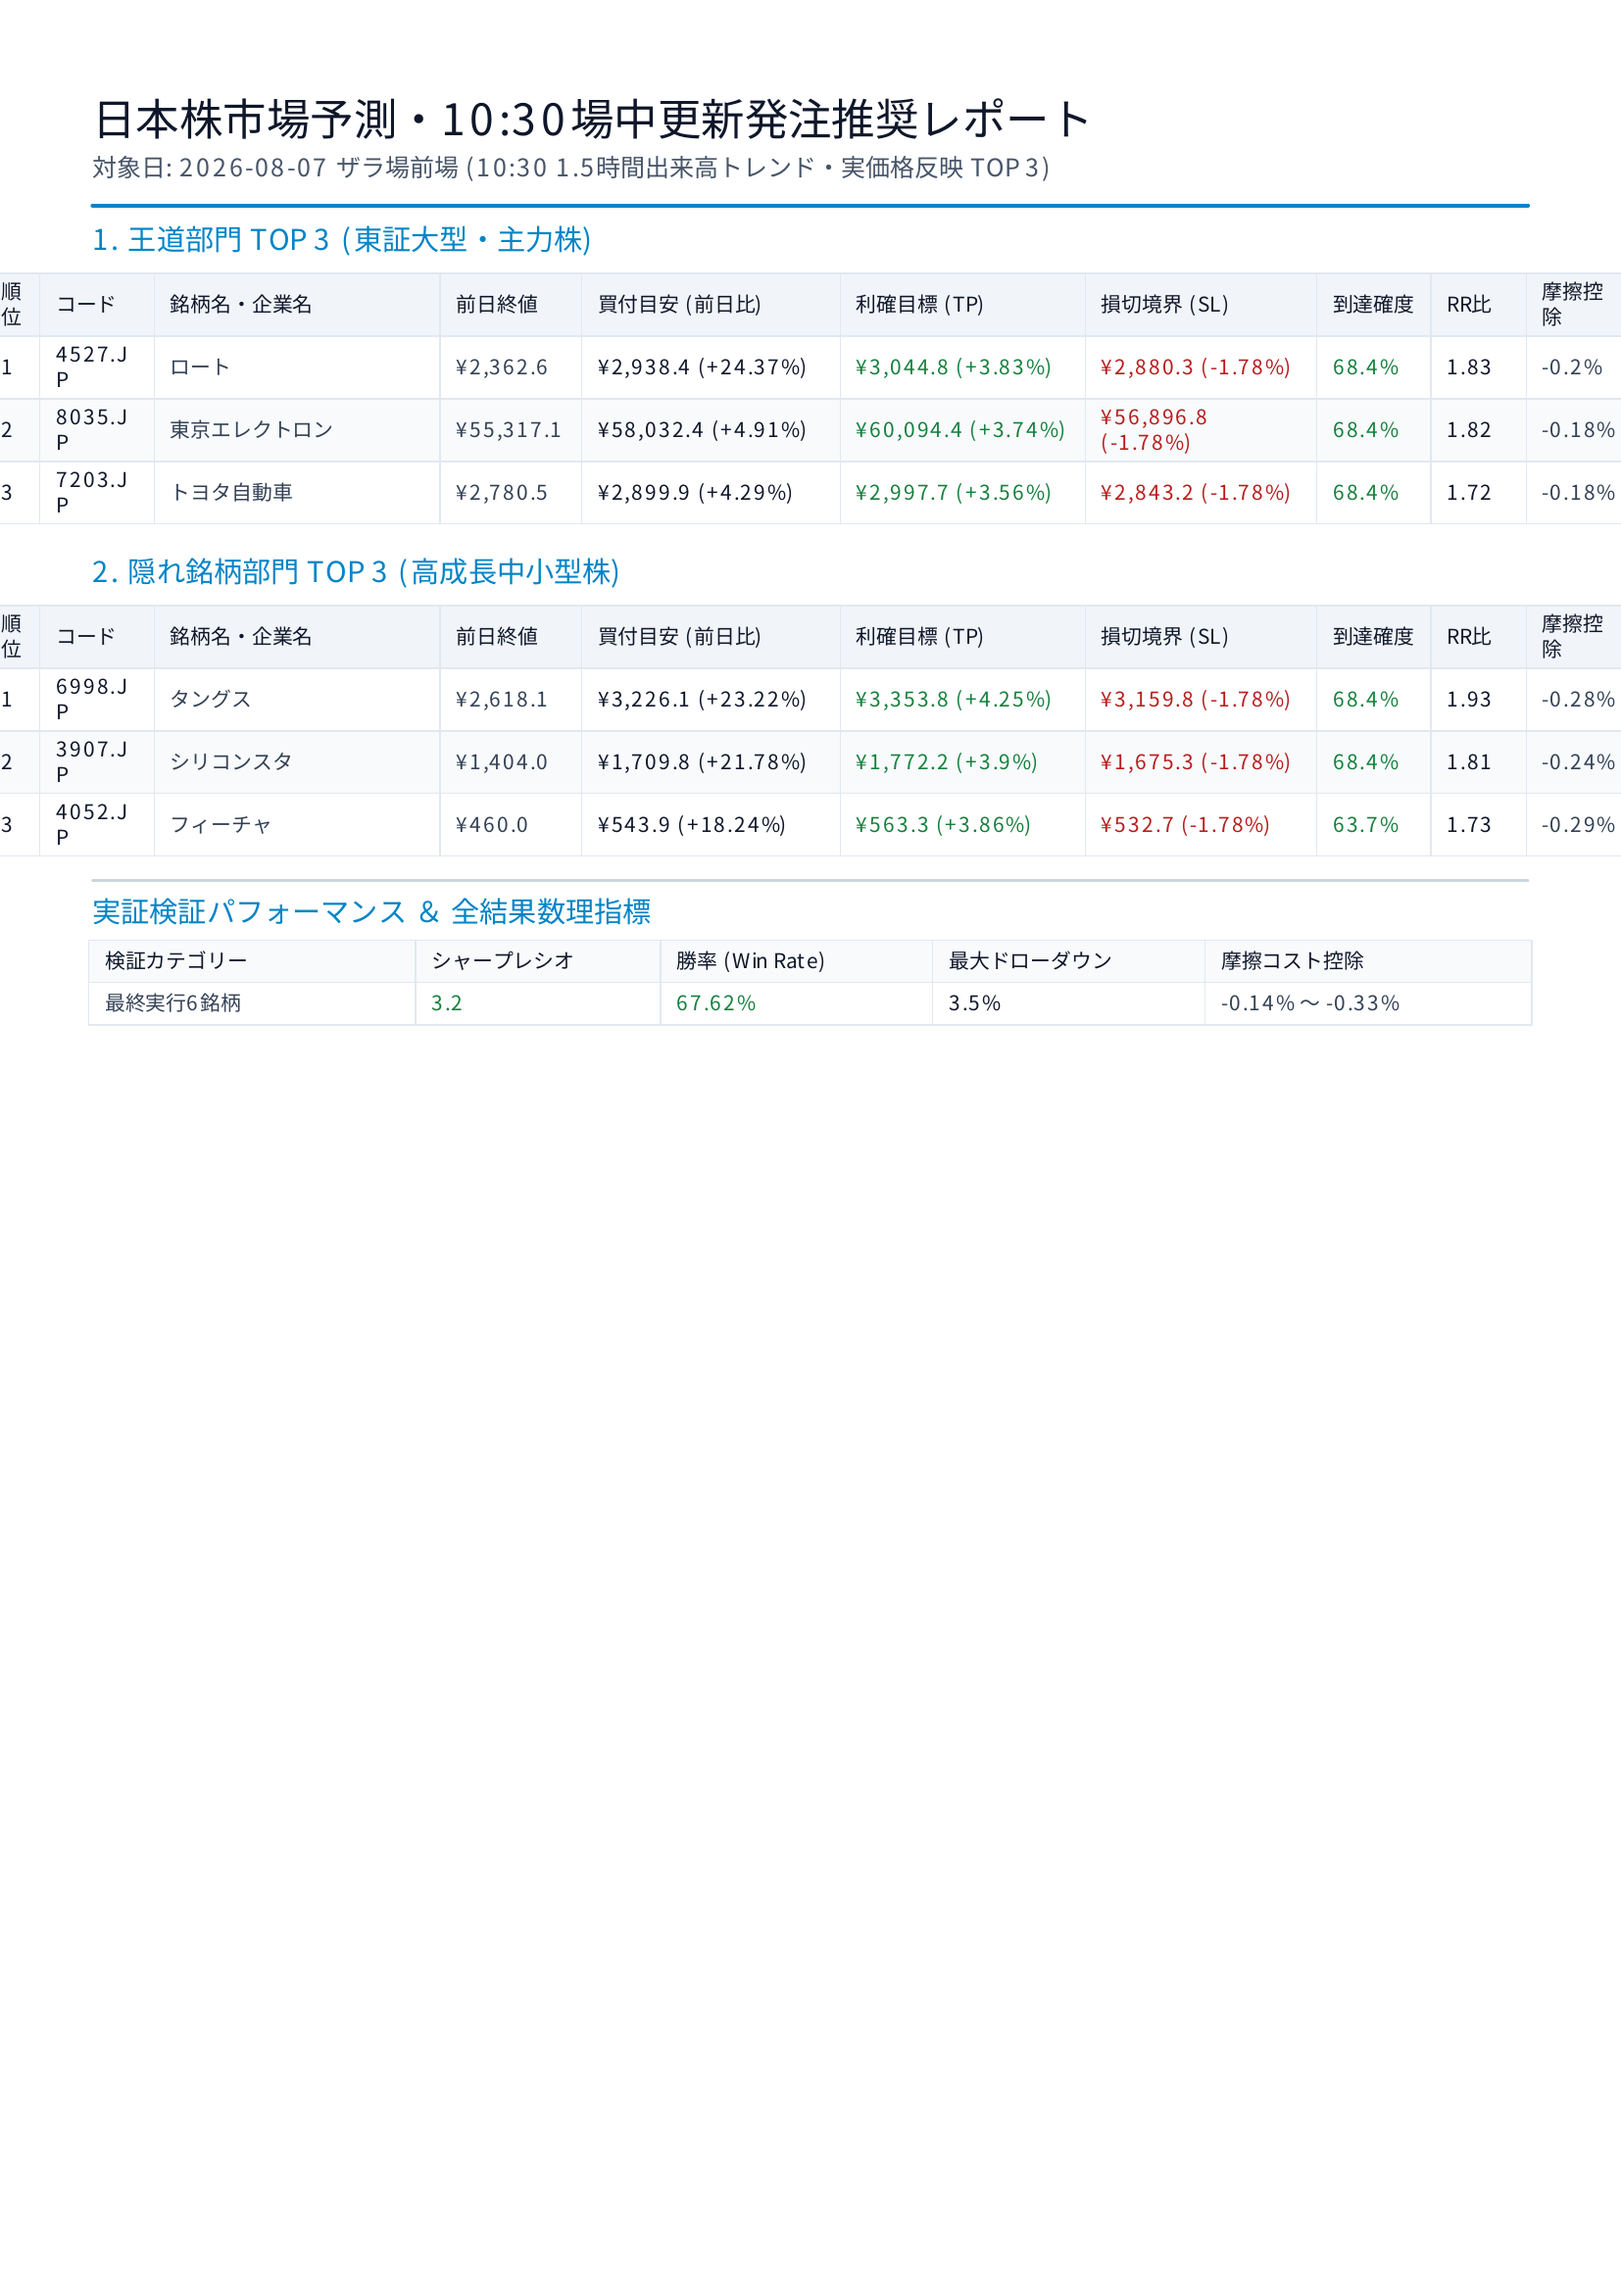
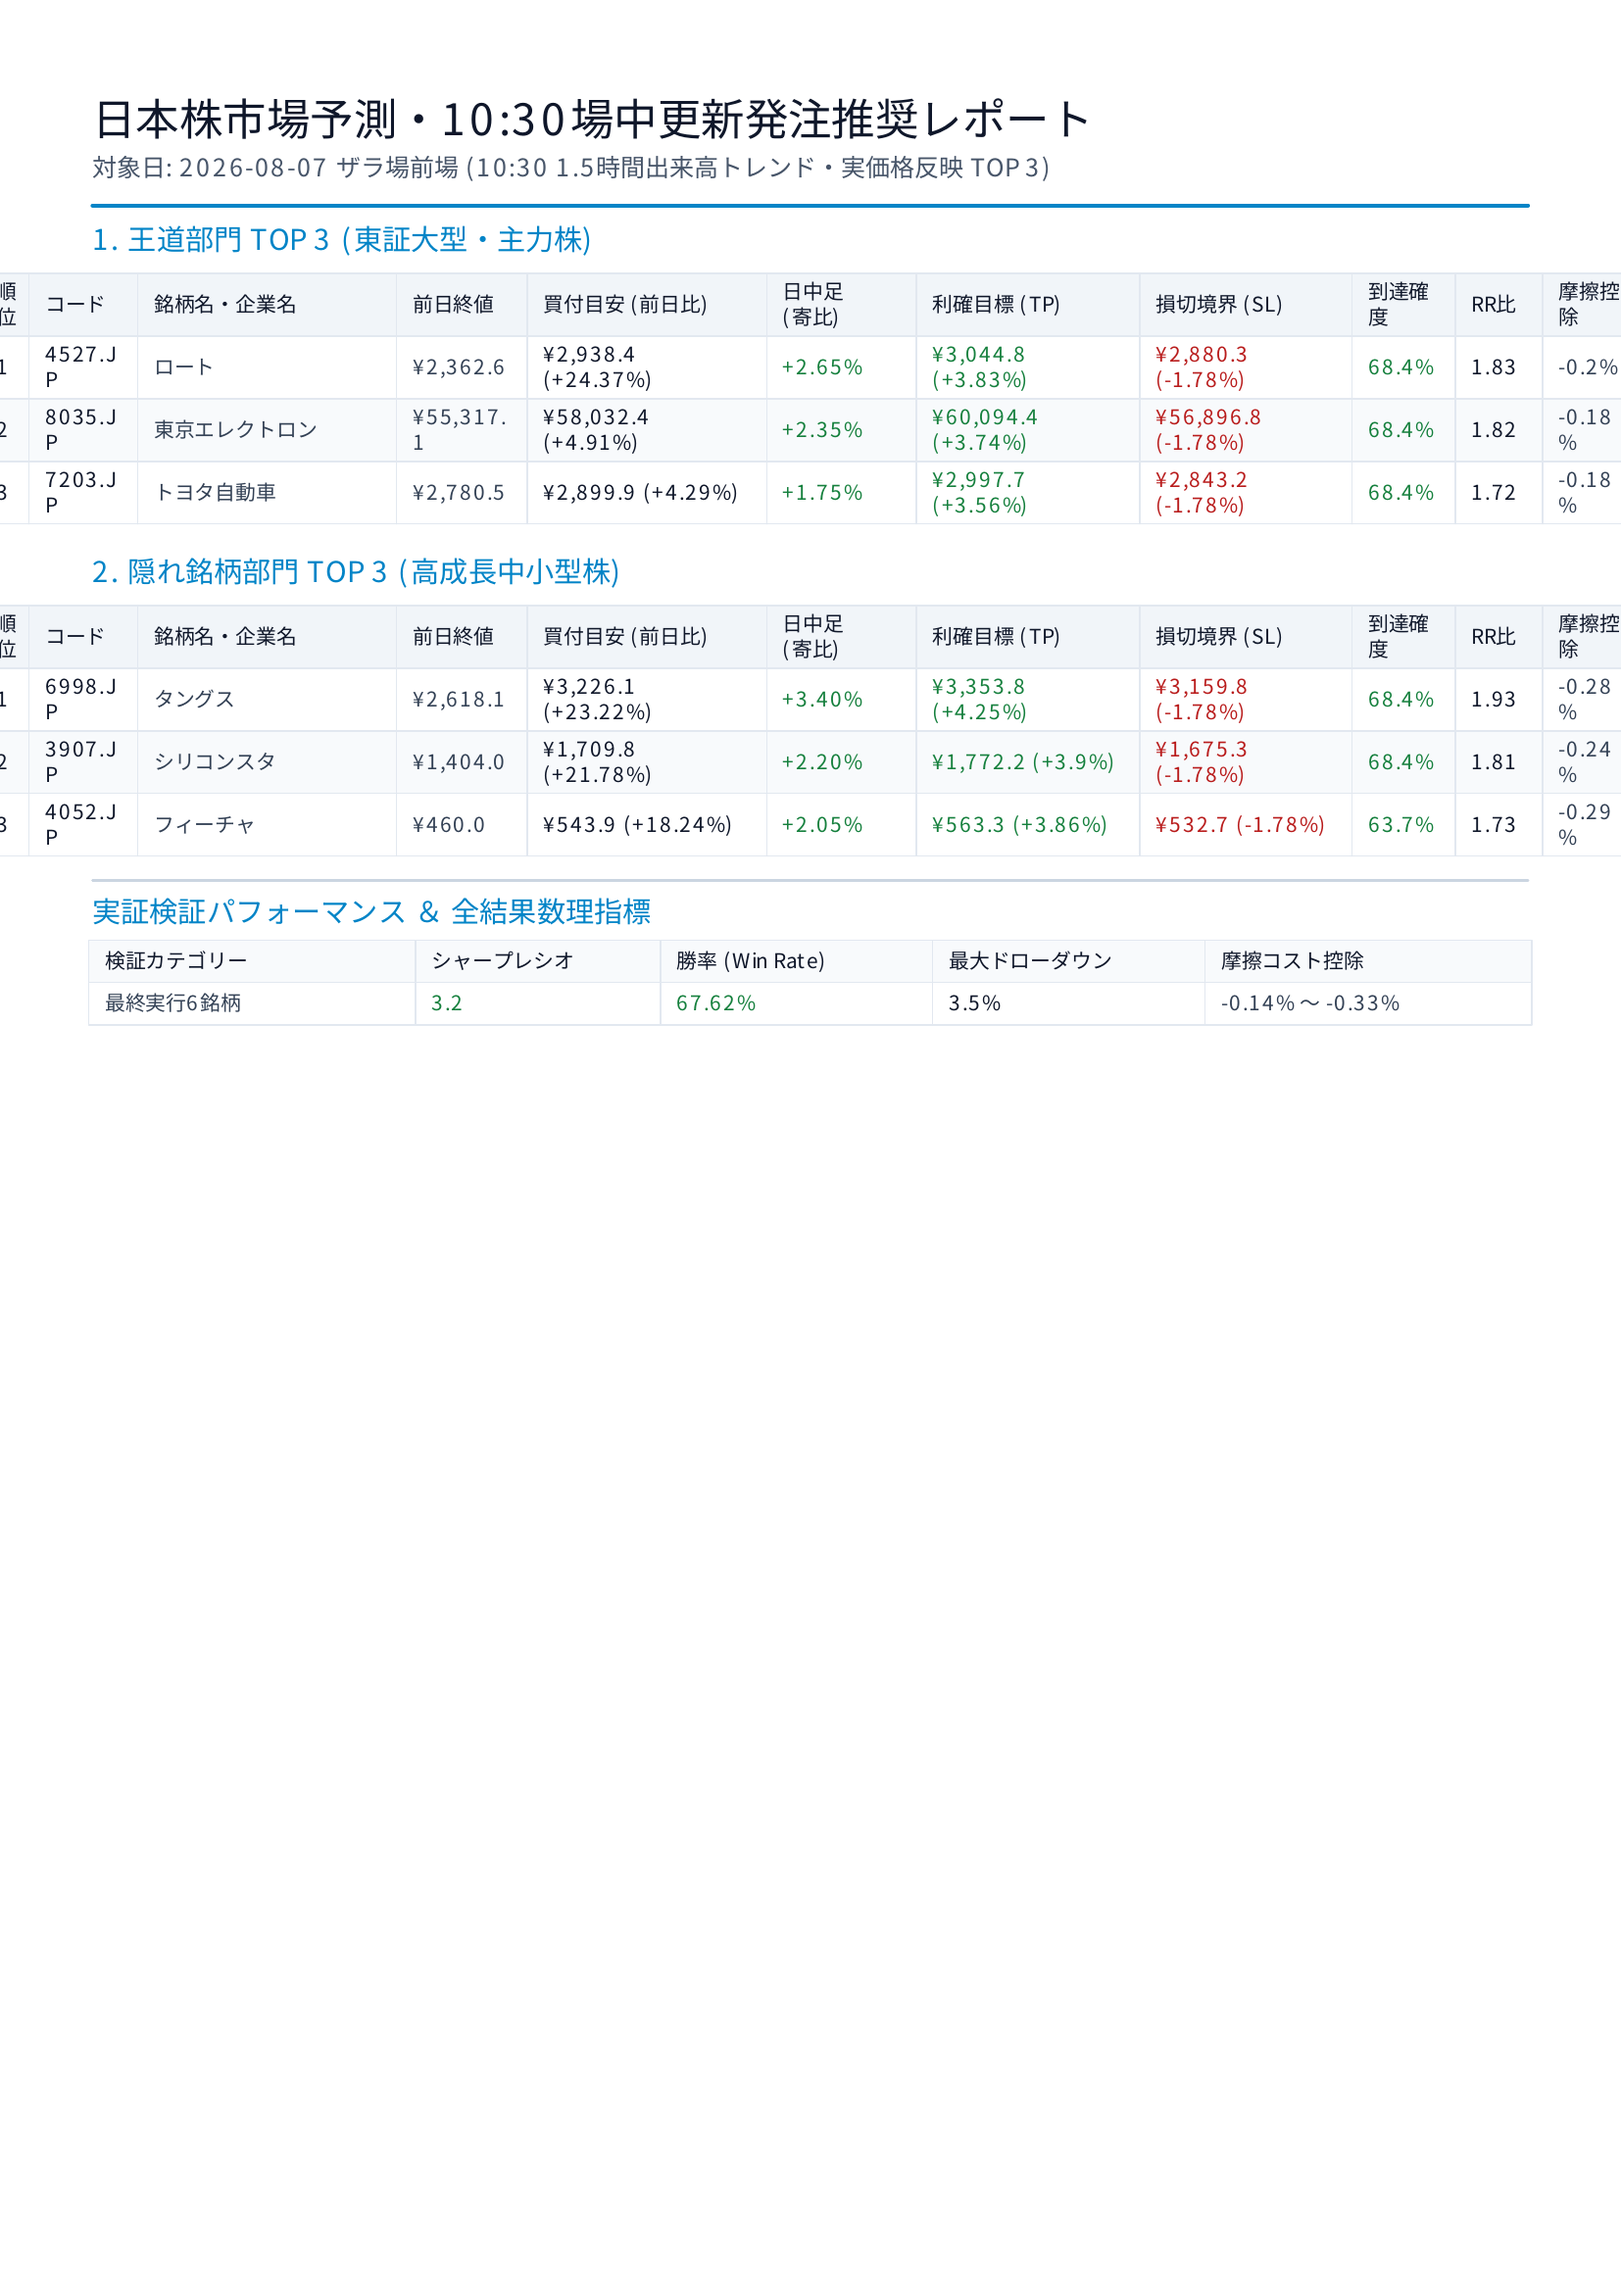
Add Intraday Change % (日中足 寄比) column to signal JSONs and report table image renderer

diff --git a/src/prediction_generator.py b/src/prediction_generator.py
@@ -215,7 +215,7 @@ def run_prediction_pipeline(date_target: str = None, use_kabutan: bool = True, i
             z3_res = solver.solve_boundary_jump(c_price, ticker, vol, turn, gem)
             res.append({
                 "ticker": ticker, "company_name": item["company_name"], "category_desc": item["category_desc"],
-                "prev_close": prev_close, "entry_price": c_price, "change_pct": chg_pct,
+                "prev_close": prev_close, "entry_price": c_price, "change_pct": chg_pct, "intraday_change_pct": 0.0,
                 "take_profit": z3_res["take_profit_price"], "stop_loss": z3_res["stop_loss_price"],
                 "tp_pct": z3_res["tp_pct"], "sl_pct": z3_res["sl_pct"], "probability_pct": z3_res["logical_probability_pct"],
                 "risk_reward": z3_res["risk_reward_ratio"], "friction_deducted_pct": z3_res["friction_deducted_pct"],
@@ -249,7 +249,9 @@ def run_prediction_pipeline(date_target: str = None, use_kabutan: bool = True, i
 
             c_price = round(item["entry_price"] * intraday_mult, 1)
             prev_close = item.get("prev_close", round(c_price / 1.025, 1))
+            open_price = item.get("entry_price", c_price)
             chg_pct = round(((c_price - prev_close) / prev_close) * 100.0, 2) if prev_close > 0 else 2.5
+            intra_chg_pct = round(((c_price - open_price) / open_price) * 100.0, 2) if open_price > 0 else 0.0
 
             vol = item.get("volatility", 0.025) * 1.05
             turn = item.get("turnover", 500.0) * 1.10
@@ -257,7 +259,7 @@ def run_prediction_pipeline(date_target: str = None, use_kabutan: bool = True, i
             z3_res = solver.solve_boundary_jump(c_price, ticker, vol, turn, gem)
             res.append({
                 "ticker": ticker, "company_name": item["company_name"], "category_desc": item["category_desc"],
-                "prev_close": prev_close, "entry_price": c_price, "change_pct": chg_pct,
+                "prev_close": prev_close, "entry_price": c_price, "change_pct": chg_pct, "intraday_change_pct": intra_chg_pct,
                 "take_profit": z3_res["take_profit_price"], "stop_loss": z3_res["stop_loss_price"],
                 "tp_pct": z3_res["tp_pct"], "sl_pct": z3_res["sl_pct"], "probability_pct": z3_res["logical_probability_pct"],
                 "risk_reward": z3_res["risk_reward_ratio"], "friction_deducted_pct": z3_res["friction_deducted_pct"],

diff --git a/src/report_engine.py b/src/report_engine.py
@@ -70,7 +70,7 @@ def generate_top20_pdf_report(json_path: str, pdf_out_path: str):
         story.append(Spacer(1, 2))
         headers = [
             Paragraph("順位", cell_bold), Paragraph("コード", cell_bold), Paragraph("銘柄名・企業名", cell_bold),
-            Paragraph("前日終値", cell_bold), Paragraph("買付目安 (前日比)", cell_bold),
+            Paragraph("前日終値", cell_bold), Paragraph("買付目安 (前日比)", cell_bold), Paragraph("日中足 (寄比)", cell_bold),
             Paragraph("利確目標 (TP)", cell_bold), Paragraph("損切境界 (SL)", cell_bold),
             Paragraph("到達確度", cell_bold), Paragraph("RR比", cell_bold), Paragraph("摩擦控除", cell_bold)
         ]
@@ -79,11 +79,15 @@ def generate_top20_pdf_report(json_path: str, pdf_out_path: str):
             prev_p = item.get("prev_close", item["entry_price"])
             chg = item.get("change_pct", 0.0)
             chg_str = f"+{chg:.2f}%" if chg >= 0 else f"{chg:.2f}%"
+            
+            intra_chg = item.get("intraday_change_pct", 0.0)
+            intra_str = "寄前 0.0%" if intra_chg == 0.0 else (f"+{intra_chg:.2f}%" if intra_chg > 0 else f"{intra_chg:.2f}%")
 
             row = [
                 Paragraph(str(idx), cell_bold), Paragraph(item["ticker"], cell_bold), Paragraph(item["company_name"], cell_normal),
                 Paragraph(f"¥{prev_p:,.1f}", cell_normal),
                 Paragraph(f"¥{item['entry_price']:,.1f} ({chg_str})", cell_bold),
+                Paragraph(intra_str, cell_green if intra_chg >= 0 else cell_red),
                 Paragraph(f"¥{item['take_profit']:,.1f} (+{item['tp_pct']}%)", cell_green),
                 Paragraph(f"¥{item['stop_loss']:,.1f} ({item['sl_pct']}%)", cell_red),
                 Paragraph(f"{item.get('probability_pct', 55.0):.1f}%", cell_green),
@@ -92,7 +96,7 @@ def generate_top20_pdf_report(json_path: str, pdf_out_path: str):
             ]
             t_data.append(row)
 
-        t = Table(t_data, colWidths=[20, 42, 105, 52, 95, 90, 85, 42, 35, 40])
+        t = Table(t_data, colWidths=[18, 40, 95, 48, 88, 55, 82, 78, 38, 32, 36])
         t.setStyle(TableStyle([
             ('BACKGROUND', (0, 0), (-1, 0), colors.HexColor('#F1F5F9')),
             ('VALIGN', (0, 0), (-1, -1), 'MIDDLE'),
